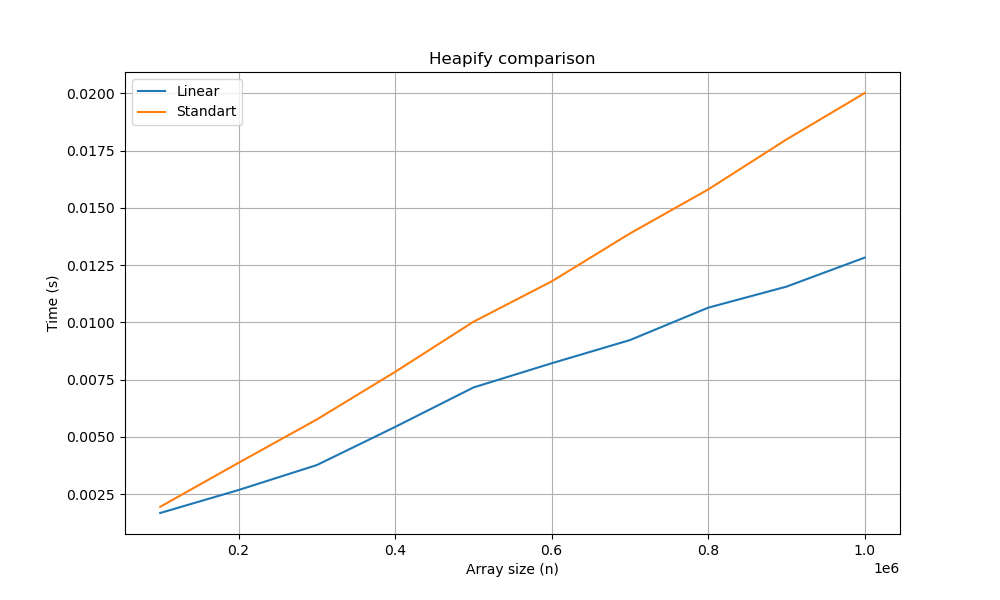
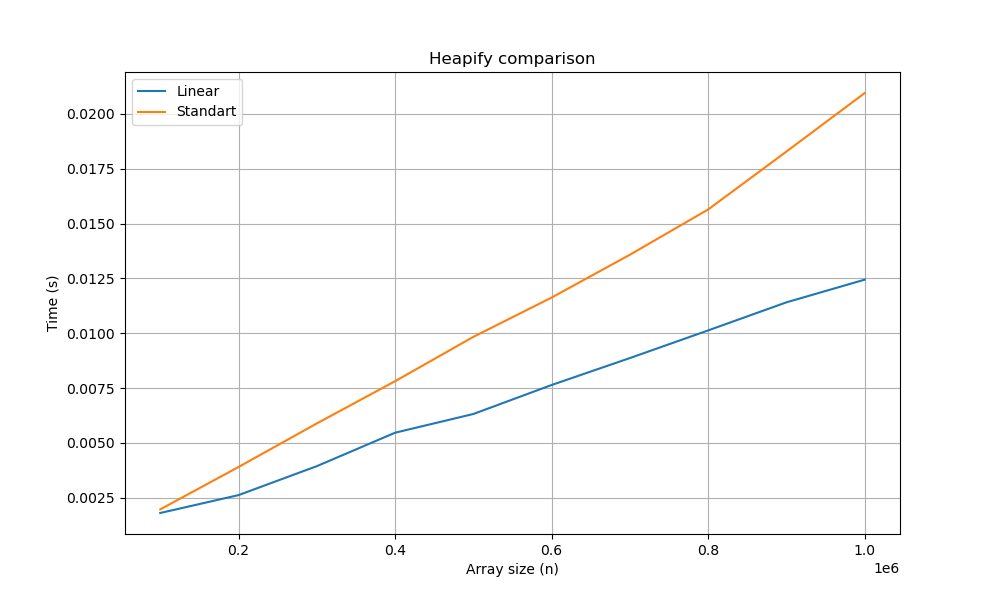
README.md updated

diff --git a/Lab4/README.md b/Lab4/README.md
@@ -33,9 +33,12 @@
 
 Число вершин на уровне $h$ в куче из $n$ элементов не более чем $\lceil \frac{n}{2^h} \rceil$. В таком случае построение будет работать не более чем за:
 
-$$ T(n) = \sum_{i = 2}^{h}{\frac{n}{2^{i}}} = O(n) \cdot \sum_{i = 2}^{h}{\frac{1}{2^i}} = const \cdot O(n) = O(n).$$
+$$ T(n) = \sum\limits_{h=2}^{\log_2 n} \frac{n}{2^h} \cdot 2h = 2n \cdot \sum\limits_{h=2}^{\log_2 n} \frac{h}{2^h} \leqslant 2n \cdot \sum\limits_{h=1}^{\infty} \frac{h}{2^h}.$$
 
-Мы начинаем сумму с $i = 2$ так как не имеет смысла рассматривать самый нижний уровень кучи, как было описано ранее.
+
+Рассмотрим сумму ряда $\sum\limits_{h=1}^{\infty} \frac{h}{2^h}$. Заметим, что $\frac{h}{2^h} =  \frac{1}{2} \cdot \frac{h - 1}{2^{h - 1}} + \frac{1}{2^h}$. Таким образом можем понять, что наш ряд это геометрическая прогрессия. Найдем её сумму по формуле $S = \frac{\frac{1}{2}}{1 - \frac{1}{2}} = 1$.
+
+Таким образом получаем, что $T(n) \leqslant 2n \cdot 1 = O(n)$.
 
 ### Сравнение построений
 
@@ -47,11 +50,11 @@ $$ T(n) = \sum_{i = 2}^{h}{\frac{n}{2^{i}}} = O(n) \cdot \sum_{i = 2}^{h}{\frac{
 
 Заметно, что линейный вариант построения работает заметно быстрее. Узнаем насколько он быстрее, аппроксимировав линии на графике как прямые, и сравнив их угловые коэффициенты.
 
-$$k_{std} = \frac{(200 - 20) \cdot 10^{-4}}{(10 - 1) \cdot 10^5} \approx 20 \cdot 10^{-9};$$
-  
-$$k_{lin} = \frac{(127 - 20) \cdot 10^{-4}}{(10 - 1) \cdot 10^5} \approx 12 \cdot 10^{-9};$$  
+$$k_{std} = \frac{(209 - 20) \cdot 10^{-4}}{(10 - 1) \cdot 10^5} \approx 21 \cdot 10^{-9};$$
 
-$$coef = \frac{k_{std}}{k_{lin}} \approx 1.67.$$  
+$$k_{lin} = \frac{(124 - 18) \cdot 10^{-4}}{(10 - 1) \cdot 10^5} \approx 12 \cdot 10^{-9};$$
+
+$$coef = \frac{k_{std}}{k_{lin}} \approx 1.75.$$
 
 Таким образом, способ построения за линию быстрее примерно в 1.7 раз.
 
